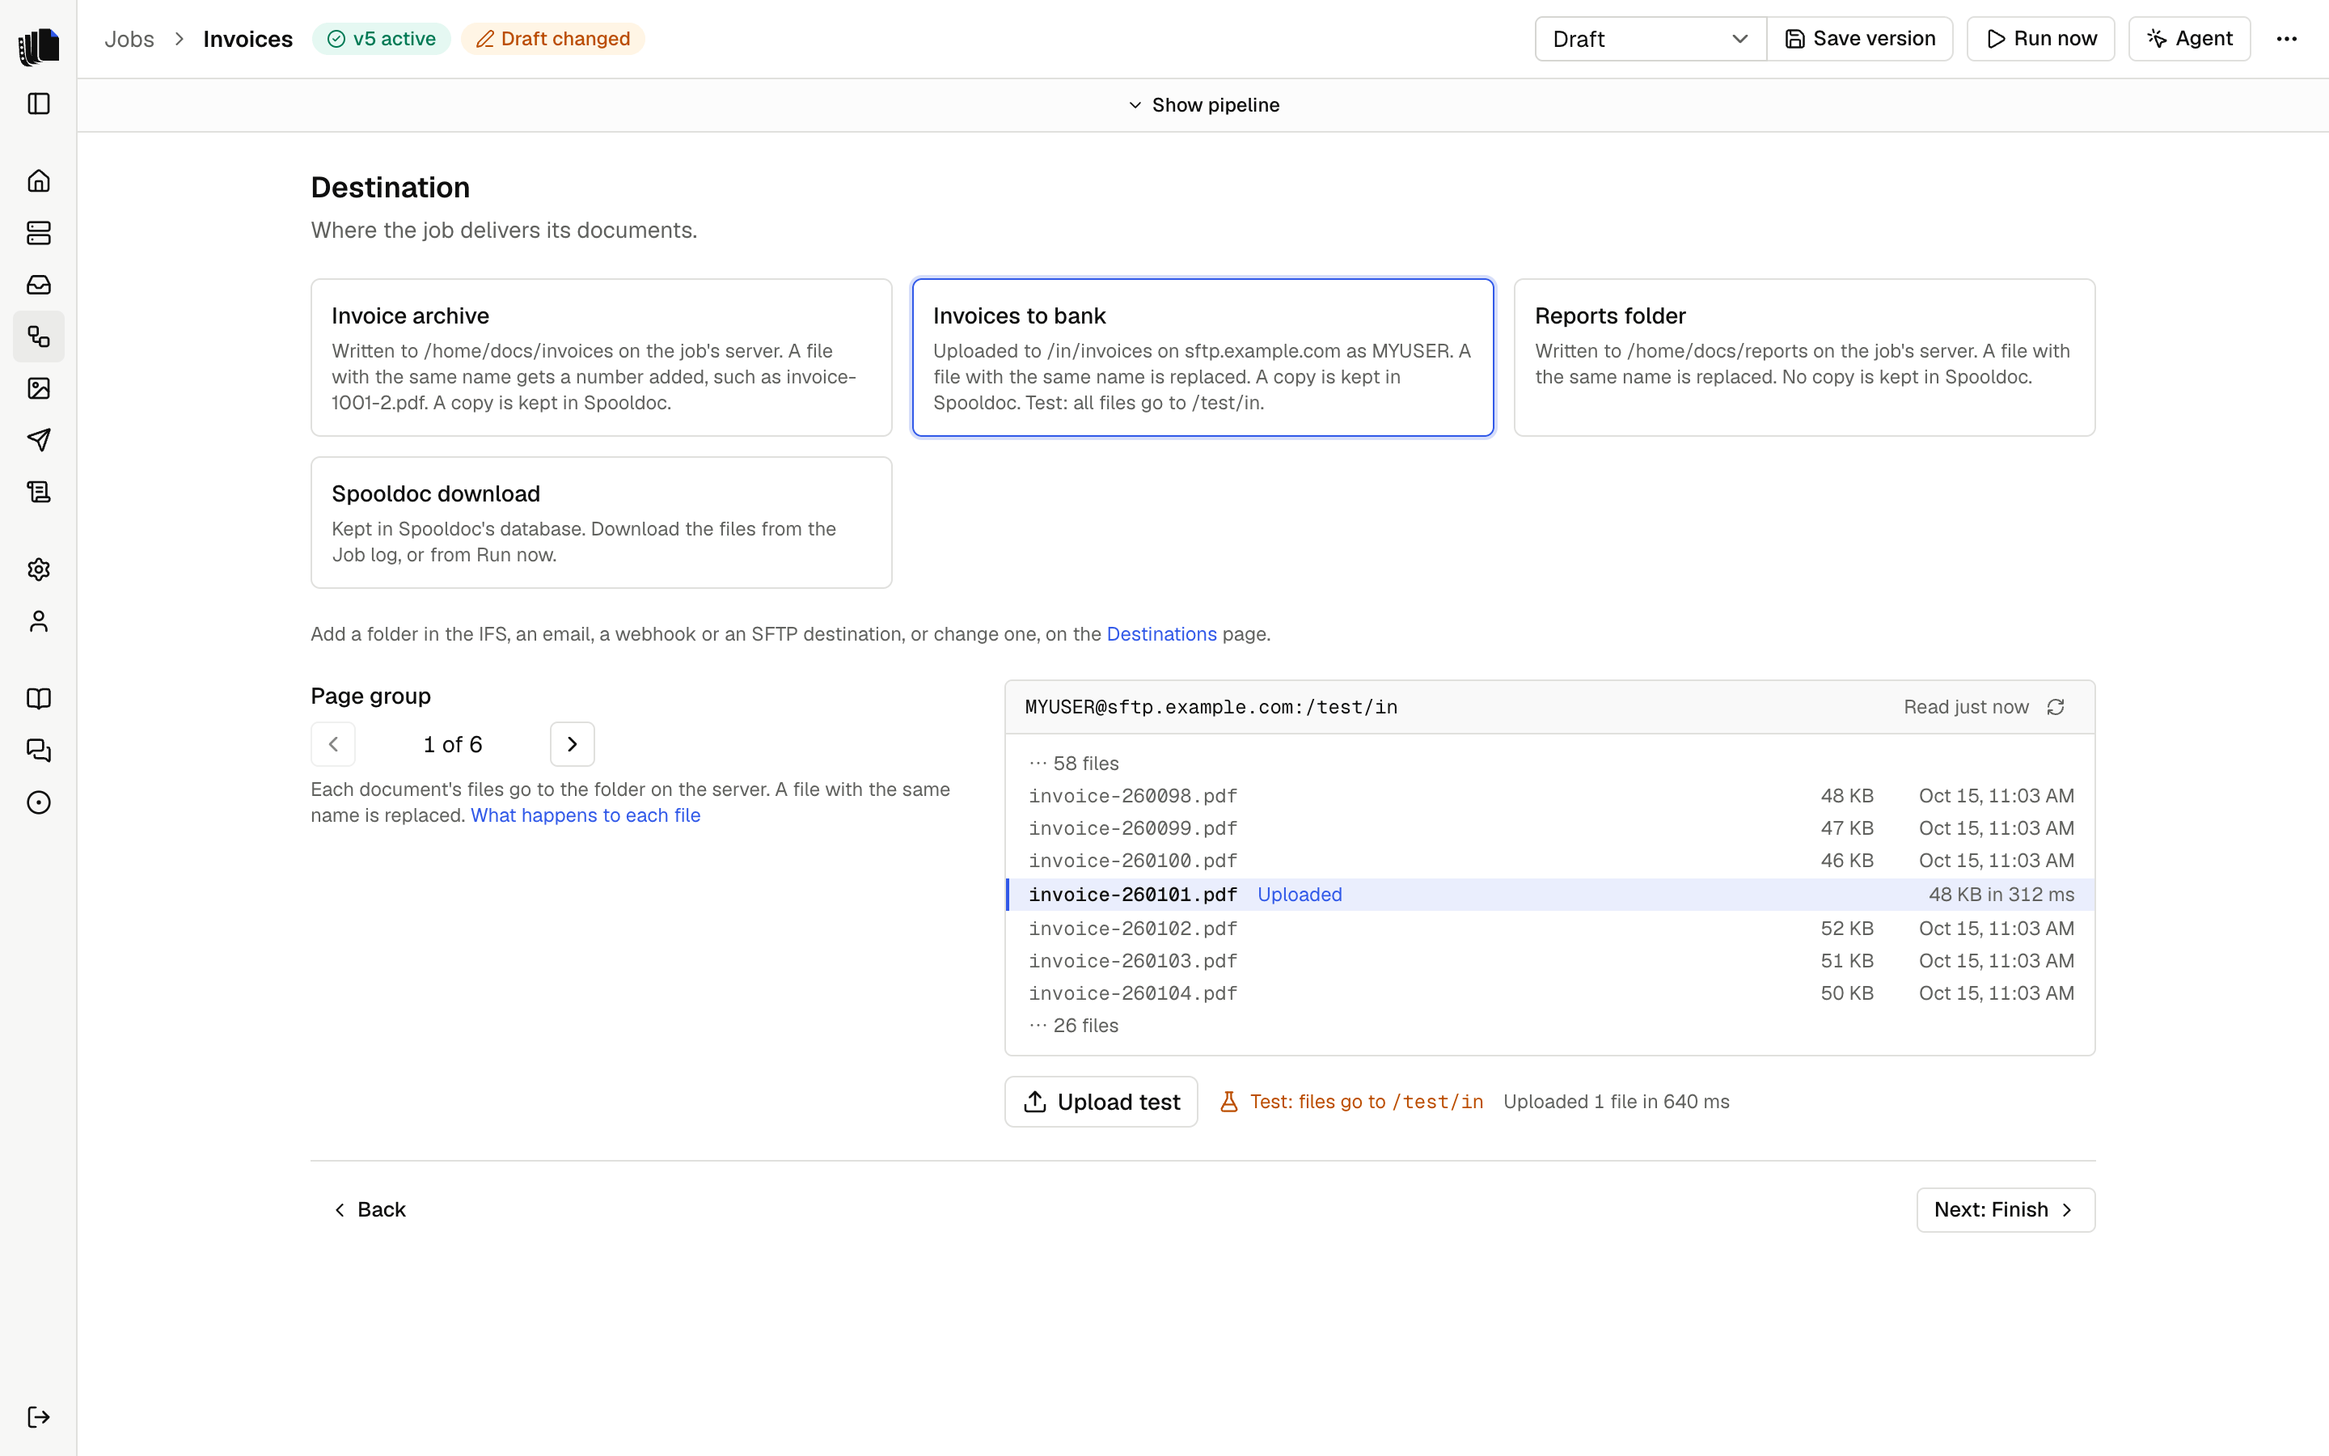
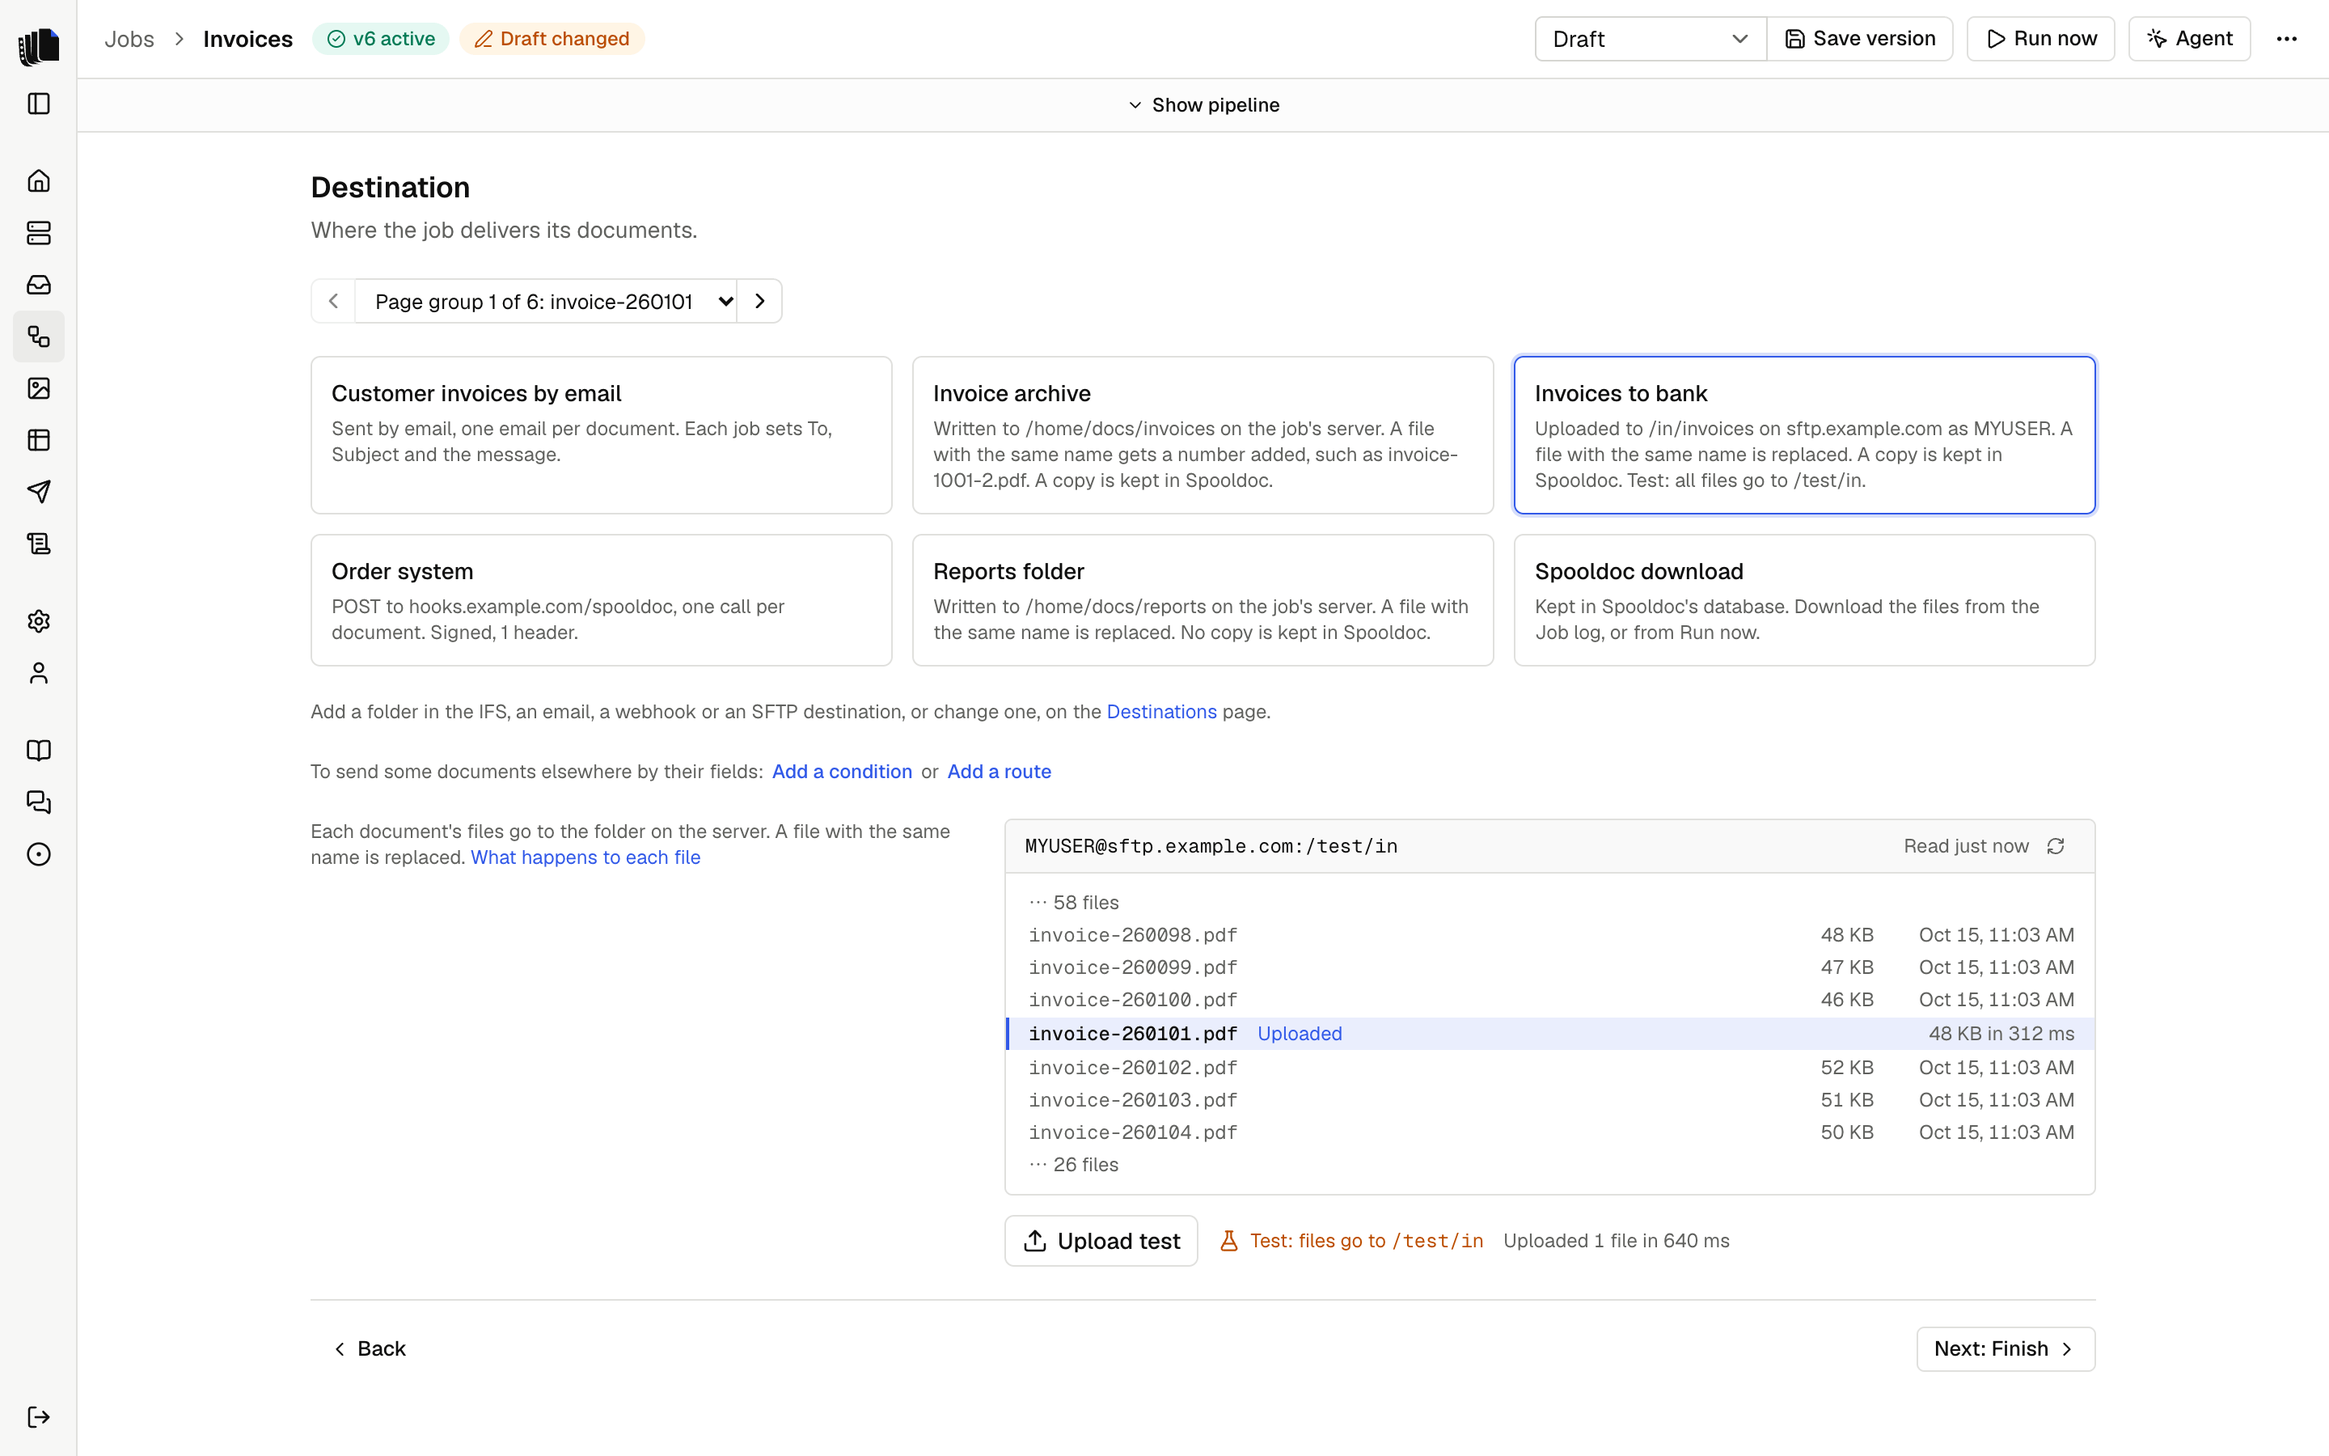
docs: retake the destination step screenshots after routes
The page group stepper moved to the top of the destination step, and a simple destination shows Add a condition and Add a route. The email, webhook and SFTP step shots show that now, and their alt text says so. The 0.4.0 and 0.5.0 posts keep the old images through frozen copies under apps/site/public/blog.

diff --git a/apps/site/src/lib/features.ts b/apps/site/src/lib/features.ts
@@ -72,11 +72,11 @@ export const SHOTS = {
   destinations:
     'The Destinations page lists an email destination, two IFS folders with their folders and settings, and the built-in Spooldoc download, each with the number of jobs that use it.',
   'email-step':
-    'The destination step of an invoice job sends to {d.pg.customerEmail} with a Bcc to an archive mailbox, a Reply-To and the subject Invoice {d.pg.invoiceNo} from MyCo Ltd. Beside the fields, the preview of page group 1 of 6 shows the email to invoices@northernsupply.example with invoice-260101.pdf attached and the message filled in, its total formatted as 302,66 € and its due date as 29.10.2026.',
+    'The destination step of an invoice job, with the page group stepper at the top on page group 1 of 6. The email destination Customer invoices by email is picked, with Add a condition and Add a route below the destinations. The fields send to {d.pg.customerEmail} with a Bcc to an archive mailbox, a Reply-To and the subject Invoice {d.pg.invoiceNo} from MyCo Ltd. Beside them, the preview shows the email to invoices@northernsupply.example with invoice-260101.pdf attached and the message filled in, its total formatted as 302,66 € and its due date as 29.10.2026.',
   'webhook-step':
-    'The destination step of an invoice job sends its PDF and HTML files to a webhook. Beside the fields, a preview of the call of page group 1 of 6 with line numbers: POST /spooldoc, the headers with the Authorization value masked and the signature, and the JSON body with the document, the job, the spooled file and the invoice fields. Below it, the receiver answered HTTP/1.1 200 OK in 142 ms.',
+    'The destination step of an invoice job, with the page group stepper at the top on page group 1 of 6. The webhook destination Order system is picked, with Add a condition and Add a route below the destinations. The fields send the PDF and HTML files. Beside them, a preview of the call with line numbers: POST /spooldoc, the headers with the Authorization value masked and the signature, and the JSON body with the document, the job, the spooled file and the invoice fields. Below it, the receiver answered HTTP/1.1 200 OK in 142 ms.',
   'sftp-step':
-    'The destination step of an invoice job uploads to SFTP. Beside the page group stepper, the test folder MYUSER@sftp.example.com:/test/in is listed with earlier invoices around invoice-260101.pdf, which Upload test has just uploaded, with its size and time. Below the listing, Upload test and the line Test: files go to /test/in.',
+    'The destination step of an invoice job, with the page group stepper at the top on page group 1 of 6. The SFTP destination Invoices to bank is picked, with Add a condition and Add a route below the destinations. Below them, the test folder MYUSER@sftp.example.com:/test/in is listed with earlier invoices around invoice-260101.pdf, which Upload test has just uploaded, with its size and time. Below the listing, Upload test and the line Test: files go to /test/in.',
   'destination-ifs':
     'The New IFS destination dialog is filled in with a name, the folder /home/docs/delivery-notes, Add a number when a file with the same name exists, and Keep a copy in Spooldoc on.',
   home: 'The Home page shows counts of servers, output queues, jobs and runs, a chart of runs per day by status, and two items under Needs attention: a server that cannot be reached and a failed run.',

diff --git a/apps/site/src/content/blog/2026-10-21-spooldoc-0-4-0.md b/apps/site/src/content/blog/2026-10-21-spooldoc-0-4-0.md
@@ -26,7 +26,7 @@ your own address until you empty **Send all email to**, so you can try a
 job before any customer gets an email. [Email](/docs/destinations/#email)
 has the details.
 
-<p align="center"><img data-theme-image="light" src="/docs/assets/email-step-light.png" alt="The destination step of an invoice job sends to {d.pg.customerEmail} with a Bcc to an archive mailbox, a Reply-To and the subject Invoice {d.pg.invoiceNo}. Beside the fields, the preview of page group 1 of 6 shows the email with invoice-260101.pdf attached and the message filled in." width="900" height="563"><img data-theme-image="dark" src="/docs/assets/email-step-dark.png" alt="The destination step of an invoice job sends to {d.pg.customerEmail} with a Bcc to an archive mailbox, a Reply-To and the subject Invoice {d.pg.invoiceNo}. Beside the fields, the preview of page group 1 of 6 shows the email with invoice-260101.pdf attached and the message filled in." width="900" height="563"></p>
+<p align="center"><img data-theme-image="light" src="/blog/spooldoc-0-4-0/email-step-light.png" alt="The destination step of an invoice job sends to {d.pg.customerEmail} with a Bcc to an archive mailbox, a Reply-To and the subject Invoice {d.pg.invoiceNo}. Beside the fields, the preview of page group 1 of 6 shows the email with invoice-260101.pdf attached and the message filled in." width="900" height="563"><img data-theme-image="dark" src="/blog/spooldoc-0-4-0/email-step-dark.png" alt="The destination step of an invoice job sends to {d.pg.customerEmail} with a Bcc to an archive mailbox, a Reply-To and the subject Invoice {d.pg.invoiceNo}. Beside the fields, the preview of page group 1 of 6 shows the email with invoice-260101.pdf attached and the message filled in." width="900" height="563"></p>
 
 **SMTP or Microsoft 365.** Settings, under **Mail server**, sends through
 an SMTP server or through a Microsoft 365 mailbox with Microsoft Graph.
@@ -49,7 +49,7 @@ URL is set, every call goes there instead.
 [Webhook](/docs/destinations/#webhook) has the body and how to check the
 signature.
 
-<p align="center"><img data-theme-image="light" src="/docs/assets/webhook-step-light.png" alt="The destination step of an invoice job sends its PDF and HTML files to a webhook. Beside the fields, a preview of the call of page group 1 of 6: the headers with the signature, and the JSON body with the document, the job, the spooled file and the invoice's fields. Below it, the receiver's answer HTTP/1.1 200 OK in 142 ms." width="900" height="850"><img data-theme-image="dark" src="/docs/assets/webhook-step-dark.png" alt="The destination step of an invoice job sends its PDF and HTML files to a webhook. Beside the fields, a preview of the call of page group 1 of 6: the headers with the signature, and the JSON body with the document, the job, the spooled file and the invoice's fields. Below it, the receiver's answer HTTP/1.1 200 OK in 142 ms." width="900" height="850"></p>
+<p align="center"><img data-theme-image="light" src="/blog/spooldoc-0-4-0/webhook-step-light.png" alt="The destination step of an invoice job sends its PDF and HTML files to a webhook. Beside the fields, a preview of the call of page group 1 of 6: the headers with the signature, and the JSON body with the document, the job, the spooled file and the invoice's fields. Below it, the receiver's answer HTTP/1.1 200 OK in 142 ms." width="900" height="850"><img data-theme-image="dark" src="/blog/spooldoc-0-4-0/webhook-step-dark.png" alt="The destination step of an invoice job sends its PDF and HTML files to a webhook. Beside the fields, a preview of the call of page group 1 of 6: the headers with the signature, and the JSON body with the document, the job, the spooled file and the invoice's fields. Below it, the receiver's answer HTTP/1.1 200 OK in 142 ms." width="900" height="850"></p>
 
 **Every email and call in the job log.** A run lists each email or call
 with its status, and a failed one opens to the reason. When one document

diff --git a/docs/destinations.md b/docs/destinations.md
@@ -201,7 +201,7 @@ the whole spooled file's email. Nothing is sent from the preview.
 <p align="center">
   <picture>
     <source media="(prefers-color-scheme: dark)" srcset="assets/email-step-dark.png">
-    <img src="assets/email-step-light.png" alt="The destination step of an invoice job sends to {d.pg.customerEmail} with a Bcc to an archive mailbox, a Reply-To and the subject Invoice {d.pg.invoiceNo} from MyCo Ltd. Beside the fields, the preview of page group 1 of 6 shows the email to invoices@northernsupply.example with invoice-260101.pdf attached and the message filled in, its total formatted as 302,66 € and its due date as 29.10.2026." width="900">
+    <img src="assets/email-step-light.png" alt="The destination step of an invoice job, with the page group stepper at the top on page group 1 of 6. The email destination Customer invoices by email is picked, with Add a condition and Add a route below the destinations. The fields send to {d.pg.customerEmail} with a Bcc to an archive mailbox, a Reply-To and the subject Invoice {d.pg.invoiceNo} from MyCo Ltd. Beside them, the preview shows the email to invoices@northernsupply.example with invoice-260101.pdf attached and the message filled in, its total formatted as 302,66 € and its due date as 29.10.2026." width="900">
   </picture>
 </p>
 
@@ -322,7 +322,7 @@ numbers, as a run would make it, with the real values of the sample:
 <p align="center">
   <picture>
     <source media="(prefers-color-scheme: dark)" srcset="assets/webhook-step-dark.png">
-    <img src="assets/webhook-step-light.png" alt="The destination step of an invoice job sends its PDF and HTML files to a webhook. Beside the fields, a preview of the call of page group 1 of 6 with line numbers: POST /spooldoc, the headers with the Authorization value masked and the signature, and the JSON body with the document, the job, the spooled file and the invoice's fields. Below it, the receiver's answer HTTP/1.1 200 OK in 142 ms." width="900">
+    <img src="assets/webhook-step-light.png" alt="The destination step of an invoice job, with the page group stepper at the top on page group 1 of 6. The webhook destination Order system is picked, with Add a condition and Add a route below the destinations. The fields send the PDF and HTML files. Beside them, a preview of the call with line numbers: POST /spooldoc, the headers with the Authorization value masked and the signature, and the JSON body with the document, the job, the spooled file and the invoice fields. Below it, the receiver answered HTTP/1.1 200 OK in 142 ms." width="900">
   </picture>
 </p>
 
@@ -643,7 +643,7 @@ then looked up one by one; when a lookup fails, the view says why.
 <p align="center">
   <picture>
     <source media="(prefers-color-scheme: dark)" srcset="assets/sftp-step-dark.png">
-    <img src="assets/sftp-step-light.png" alt="The destination step of an invoice job uploads to SFTP. Beside the page group stepper, the test folder MYUSER@sftp.example.com:/test/in is listed with earlier invoices around invoice-260101.pdf, which Upload test has just uploaded, with its size and time. Below the listing, Upload test and the line Test: files go to /test/in." width="900">
+    <img src="assets/sftp-step-light.png" alt="The destination step of an invoice job, with the page group stepper at the top on page group 1 of 6. The SFTP destination Invoices to bank is picked, with Add a condition and Add a route below the destinations. Below them, the test folder MYUSER@sftp.example.com:/test/in is listed with earlier invoices around invoice-260101.pdf, which Upload test has just uploaded, with its size and time. Below the listing, Upload test and the line Test: files go to /test/in." width="900">
   </picture>
 </p>
 

diff --git a/apps/site/src/content/blog/2026-10-22-spooldoc-0-5-0.md b/apps/site/src/content/blog/2026-10-22-spooldoc-0-5-0.md
@@ -50,7 +50,7 @@ receiver never picks up a test.
 [The folder view](/docs/destinations/#the-folder-view-and-upload-test)
 has the details.
 
-<p align="center"><img data-theme-image="light" src="/docs/assets/sftp-step-light.png" alt="The destination step of an invoice job uploads to SFTP. Beside the page group stepper, the test folder MYUSER@sftp.example.com:/test/in is listed with earlier invoices around invoice-260101.pdf, which Upload test has just uploaded, with its size and time. Below the listing, Upload test and the line Test: files go to /test/in." width="900" height="563"><img data-theme-image="dark" src="/docs/assets/sftp-step-dark.png" alt="The destination step of an invoice job uploads to SFTP. Beside the page group stepper, the test folder MYUSER@sftp.example.com:/test/in is listed with earlier invoices around invoice-260101.pdf, which Upload test has just uploaded, with its size and time. Below the listing, Upload test and the line Test: files go to /test/in." width="900" height="563"></p>
+<p align="center"><img data-theme-image="light" src="/blog/spooldoc-0-5-0/sftp-step-light.png" alt="The destination step of an invoice job uploads to SFTP. Beside the page group stepper, the test folder MYUSER@sftp.example.com:/test/in is listed with earlier invoices around invoice-260101.pdf, which Upload test has just uploaded, with its size and time. Below the listing, Upload test and the line Test: files go to /test/in." width="900" height="563"><img data-theme-image="dark" src="/blog/spooldoc-0-5-0/sftp-step-dark.png" alt="The destination step of an invoice job uploads to SFTP. Beside the page group stepper, the test folder MYUSER@sftp.example.com:/test/in is listed with earlier invoices around invoice-260101.pdf, which Upload test has just uploaded, with its size and time. Below the listing, Upload test and the line Test: files go to /test/in." width="900" height="563"></p>
 
 **Every upload in the job log.** A run lists each file with the path it
 got on the server, its size and its status. When one file cannot be
